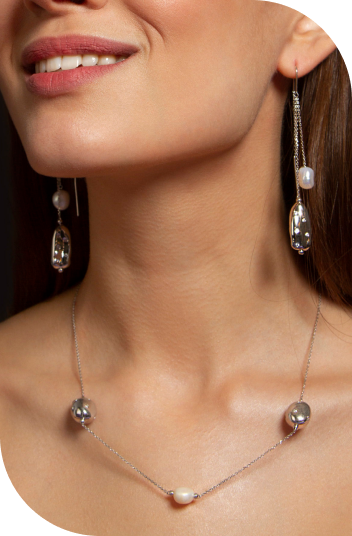
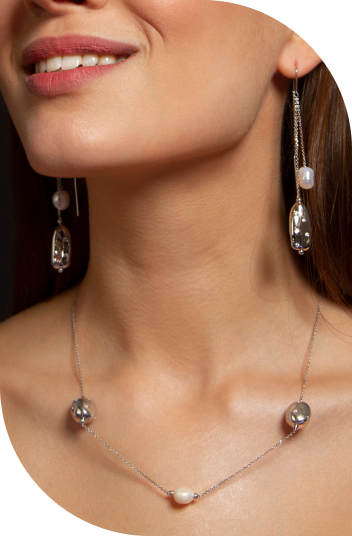
Add files via upload

Changed region(s): [[0.625, 0.0, 1.0, 0.2687], [0.0, 0.7463, 0.4062, 1.0]]

diff --git a/index.html b/index.html
@@ -5,19 +5,72 @@
     <meta http-equiv="X-UA-Compatible" content="IE=edge">
     <meta name="viewport" content="width=device-width, initial-scale=1.0">
     <title>Document</title>
+    <link rel="stylesheet" href="https://cdnjs.cloudflare.com/ajax/libs/normalize/8.0.1/normalize.min.css">
     <link rel="stylesheet" href="main.css">
 </head>
 <body>
-    <main class="main">
-        <div class="main__item">
-            <h1 class="main__title">Украшения собственного производства</h1>
-            <p class="main__text">Все изделия создаются с любовью для каждого клиента</p>
-            <a href="#" class="link">Сделать расчет и заказ</a>
+    <div class="container">
+        <main class="main">
+            <div class="main__item">
+                <h1 class="main__title">Украшения собственного производства</h1>
+                <p class="main__text">Все изделия создаются с любовью для&nbsp;каждого клиента</p>
+                <a href="#" class="link">Сделать расчет и заказ</a>
+            </div>
+            <div class="main__images">
+                <img src="/img/7-IMG_2191-1-3-scaled-e1605728110550 1.png">
+                <img src="/img/urbanisland-53 1.png">
+            </div>
+        </main>
+        <section class="products">
+            <h2 class="title-h2">Наши изделия</h2>
+            <div class="grid">
+                <div class="grid__cover">
+                    <img src="/img/01.png" alt="">
+                </div>
+                <div class="grid__cover">
+                    <img src="/img/02.png" alt="">
+                </div>
+                <div class="grid__cover">
+                    <img src="/img/03.png" alt="">
+                </div>
+                <div class="grid__cover">
+                    <img src="/img/04.png" alt="">
+                </div>
+            </div>
+        </section>
+        <div class="cost">
+            <div class="cost__title">
+                <svg class="circle" width="200" height="200" viewBox="0 0 200 200">
+                    <path id="circleShape" class="circle__shape" d="M 20, 100 a 80, 80 0 1,1 160,0 a 80, 80 0 1,1 -160, 0" fill="none"></path>
+                    <path class="circle__arrow" d="M 75 100 L 125 100 L 110 85 M 125 100 L 110 115" fill="none" stroke="#2B2024" stroke-width="2"></path>
+                    <text class="circle__text">
+                        <textPath href="#circleShape">
+                            Рассчитать стоимость
+                        </textPath>
+                    </text>
+                </svg>
+            </div>
+            <div class="cost__calc">
+                <form class="form">
+                    <p class="form__text">Выберите изделие:</p>
+                    <select id="selectProduct" class="form__select">
+                        <option value="0" selected disabled>Выбрать из списка</option>
+                        <option value="1000">Браслет (1000 ₽)</option>
+                        <option value="1500">Кольцо (1500 ₽)</option>
+                        <option value="2000">Серьги (2000 ₽)</option>
+                    </select>
+                    <p class="form__text">Укажите количество:</p>
+                    <input id="quantityProduct" class="form__input" type="number" value="0" min="0">
+                    <button type="button" class="link" id="btnProduct">Рассчитать</button>
+                </form>
+                <div id="infoProduct" class="total" style="display:none;">
+                    <p class="total__price">Итог: <span id="priceProduct"></span></p>
+                    <p class="total__info">Оставьте заявку по почте: <a href="mailto:order@jewelery.com" class="total__email">order@jewelery.com</a></p>
+                </div>
+            </div>
         </div>
-        <div class="main__images">
-            <img src="/img/7-IMG_2191-1-3-scaled-e1605728110550 1.png">
-        </div>
-    </main>
+    </div>
+    
     <script src="script.js"></script>
 </body>
 </html>

diff --git a/main.css b/main.css
@@ -13,24 +13,188 @@ body {
     color: var(--textColor);
     font-size: 22px;
 }
+.container{
+    max-width: 1250px;
+    padding-left: 15px;
+    padding-right: 15px;
+    margin: 0 auto;
+}
+/* Main */
+.main{
+    display: flex;
+    align-items: center;
+    justify-content: space-between;
+    margin-top: 74px;
+}
+.main__item{
+    flex-basis: 460px;
+}
+.main__images{
+    display: flex;
+    align-items: flex-end;
+    gap: 12px;
+    position: relative;
+}
+.main__images::after{
+    content: '';
+    display: block;
+    width: 352px;
+    height: 536px;
+    background-repeat: no-repeat;
+    background-image: url(/img/Rectangle\ 1.png);
+    background-size: cover;
+    position: absolute;
+    left: 38px;
+    bottom: 35px;
+}
 .main__title,
-.link{
+.link,
+.title-h2,
+.circle__text,
+.form__select,
+.form__input{
     font-family: 'IBM Plex Serif', serif;
 }
 .main__title{
     font-size: 64px;
+    font-weight: 400;
+    line-height: 1.2;
+    margin-top: 0;
+    margin-bottom: 38px;
+}
+.main__text{
+    line-height: 1.5;
+    margin-top: 0;
+    margin-bottom: 43px;
 }
 .link{
     font-size: 20px;
     text-align: center;
     background: var(--bgLink);
     color: var(--lightColor);
+    border: none;
     text-decoration: none;
     padding: 16px 0;
     display: block;
+    width: 100%;
     max-width: 300px;
+    cursor: pointer;
     transition: .2s;
 }
 .link:hover{
     background: var(--bgLinkHover);
 }
+/* Products */
+.products{
+    margin-top: 123px;
+}
+.grid{
+   display: grid;
+   grid-template-columns: 1fr 244px 1fr; 
+   grid-template-rows: 218px 218px;
+   gap: 15px 16px;
+   margin-top: 48px;
+}
+.grid__cover:nth-child(1){
+    grid-column: 1 / 2;
+    grid-row: 1 / 3;
+}
+.grid__cover:nth-child(2){
+    grid-column: 2 / 3;
+    grid-row: 1 / 2;
+}
+.grid__cover:nth-child(3){
+    grid-column: 2 / 3;
+    grid-row: 2 / 3;
+}
+.grid__cover:nth-child(4){
+    grid-column: 3 / 4;
+    grid-row: 1 / 3;
+}
+.grid__cover{
+    position: relative;
+    overflow: hidden;
+    width: 100%;
+    height: 100%;
+}
+.grid__cover img{
+    width: 100%;
+    height: 100%;
+    position: absolute;
+    left: 50%;
+    top: 50%;
+    transform: translate(-50%, -50%);
+    object-fit: cover;
+}
+.title-h2{
+    font-size: 50px;
+    font-weight: 400;
+    text-align: center;
+    margin-top: 0;
+    margin-bottom: 0;
+}
+/* Cost */
+
+.cost{
+    display: flex;
+    justify-content: center;
+    gap: 82px;
+    margin-top: 157px;
+    margin-bottom: 200px;
+}
+.circle__text{
+    text-transform: uppercase;
+    letter-spacing: 8px;
+    word-spacing: 21px;
+    animation: motion normal infinite 20s linear;
+    transform-origin: 50% 50%;
+}
+
+.circle:hover .circle__text{
+    animation-play-state: paused;
+}
+
+ @keyframes motion{
+    to{
+        transform: rotate(360deg);
+    }
+ }
+
+ .form__text{
+    margin-bottom: 9px;
+ }
+ .form__select{
+    margin-bottom: 24px;
+    width: 340px;
+    appearance: none;
+    -webkit-appearance: none;
+    -moz-appearance: none;
+    background-image: url(/img/Polygon\ 1.svg);
+    background-repeat: no-repeat;
+    background-position: 98% center;
+ }
+ .form__input{
+    margin-bottom: 40px;
+    width: 90px;
+ }
+ .form__select,
+ .form__input{
+    font-size: 20px;
+    border: 1px solid var(--bgLink);
+    background-color: var(--lightColor);
+    padding: 17px 26px;
+    box-sizing: border-box;
+ }
+ .total__price{
+    font-size: 40px;
+    margin-bottom: 30px;
+    color: var(--bgLink);
+ }
+ .total__info{
+    line-height: 1.4;
+    margin-top: 0;
+ }
+ .total__email{
+    color: var(--textColor);
+    display: block;
+ }

diff --git a/script.js b/script.js
@@ -1,0 +1,17 @@
+document.getElementById('btnProduct').onclick = function(){
+    calcCost();
+};
+
+function calcCost(){
+    var sP = document.getElementById('selectProduct').value;
+    var qP = document.getElementById('quantityProduct').value;
+    var total = sP * qP;
+    document.getElementById('priceProduct').innerHTML = total;
+    document.getElementById('infoProduct').style.display = 'block';
+
+    if (sP == 0 || qP == 0) {
+        document.getElementById('infoProduct').style.display = 'none';
+        alert('Укажите значения');
+        return;
+    }
+}
